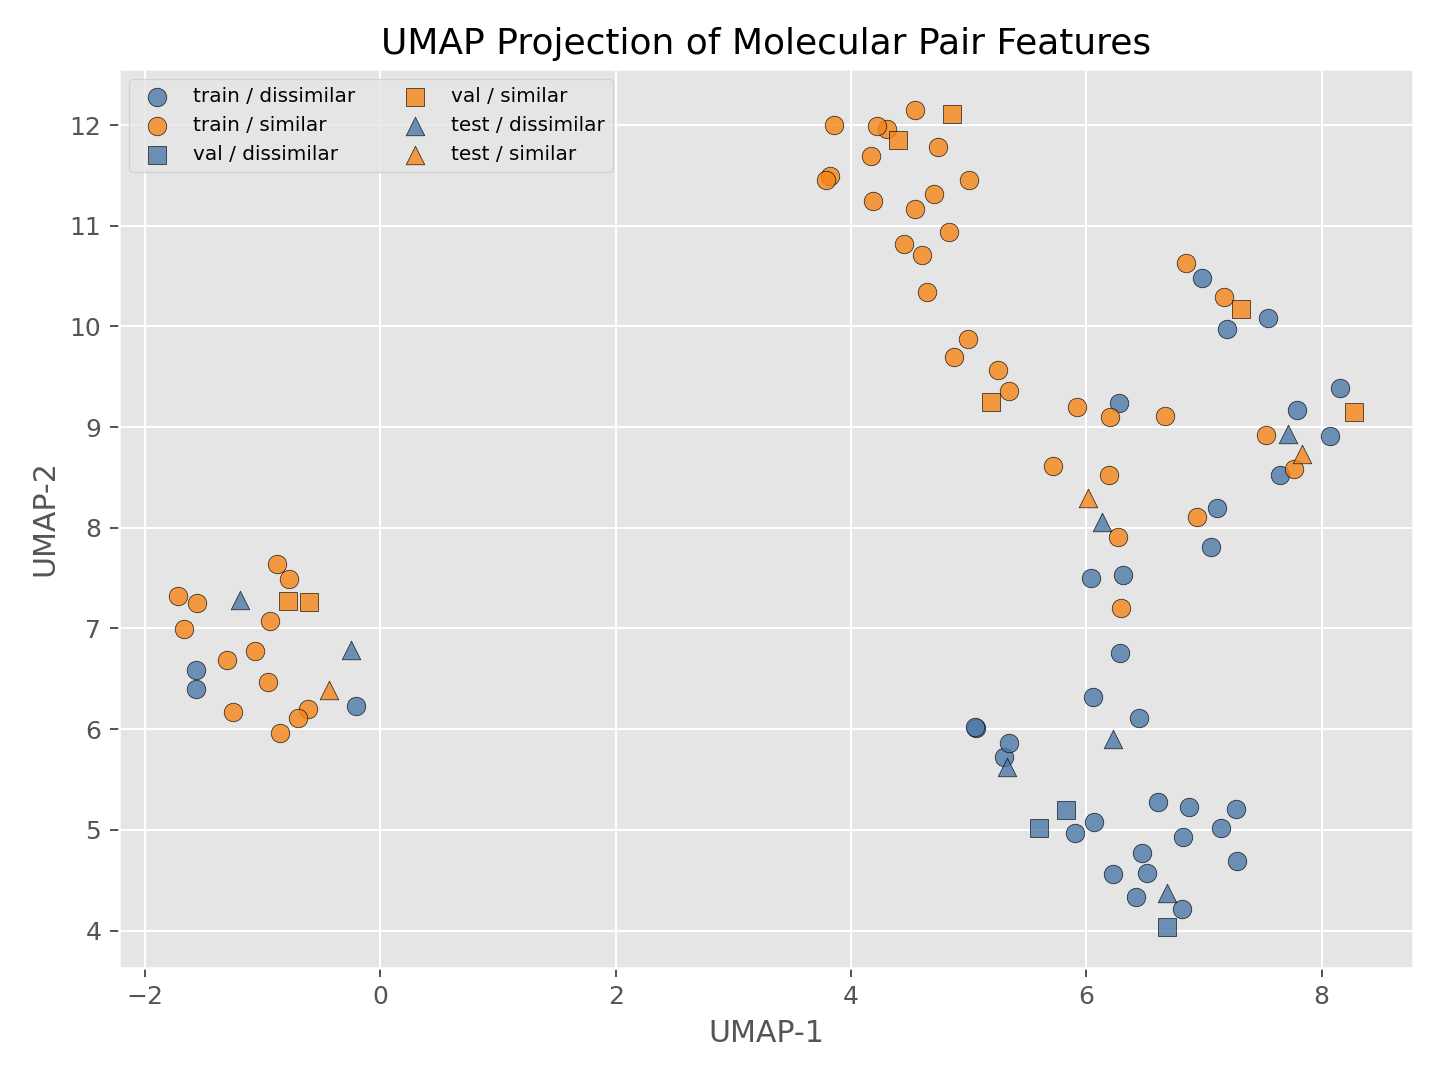
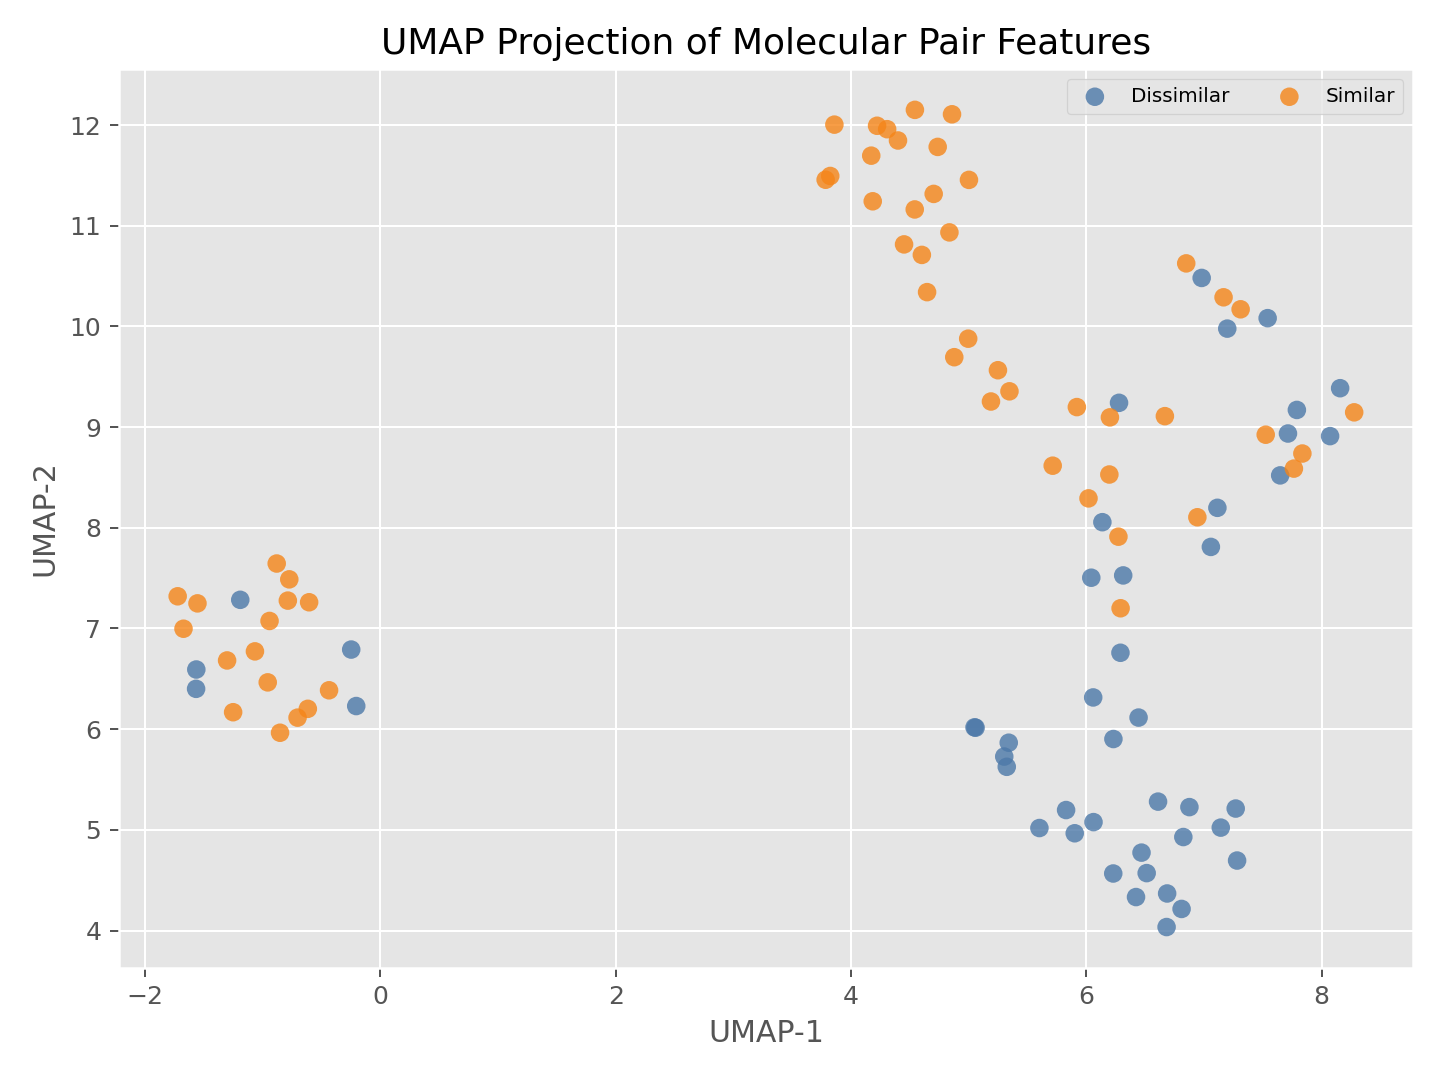
Refresh threshold report artifacts

diff --git a/scripts/download_chembl_dataset.py b/scripts/download_chembl_dataset.py
@@ -8,7 +8,6 @@ Usage:
 """
 
 import argparse
-import sys
 from pathlib import Path
 
 
@@ -38,7 +37,7 @@ def download_from_chembl(output_dir: Path) -> None:
     print("   - Full ChEMBL dump: https://chembl.gitbook.io/chembl/downloads")
     print("   - Contains: SDF with 3D coordinates, SMILES, activities")
     
-    print(f"\n Directory structure created:")
+    print("\n Directory structure created:")
     print(f"   {conformers_dir}/  (place PDB/SDF files here)")
     print(f"   {images_dir}/      (place SVG/PNG files here)")
     

diff --git a/exploration/reports/similarity_threshold_model.md b/exploration/reports/similarity_threshold_model.md
@@ -27,7 +27,7 @@
 
 ### UMAP Projection
 
-The UMAP view projects molecule-pair feature vectors into 2D; color shows actual similarity label and marker shows split.
+The UMAP view projects molecule-pair feature vectors into 2D; colors show actual similarity labels.
 
 ![UMAP projection of molecular pair features](similarity_threshold_model_umap.png)
 
